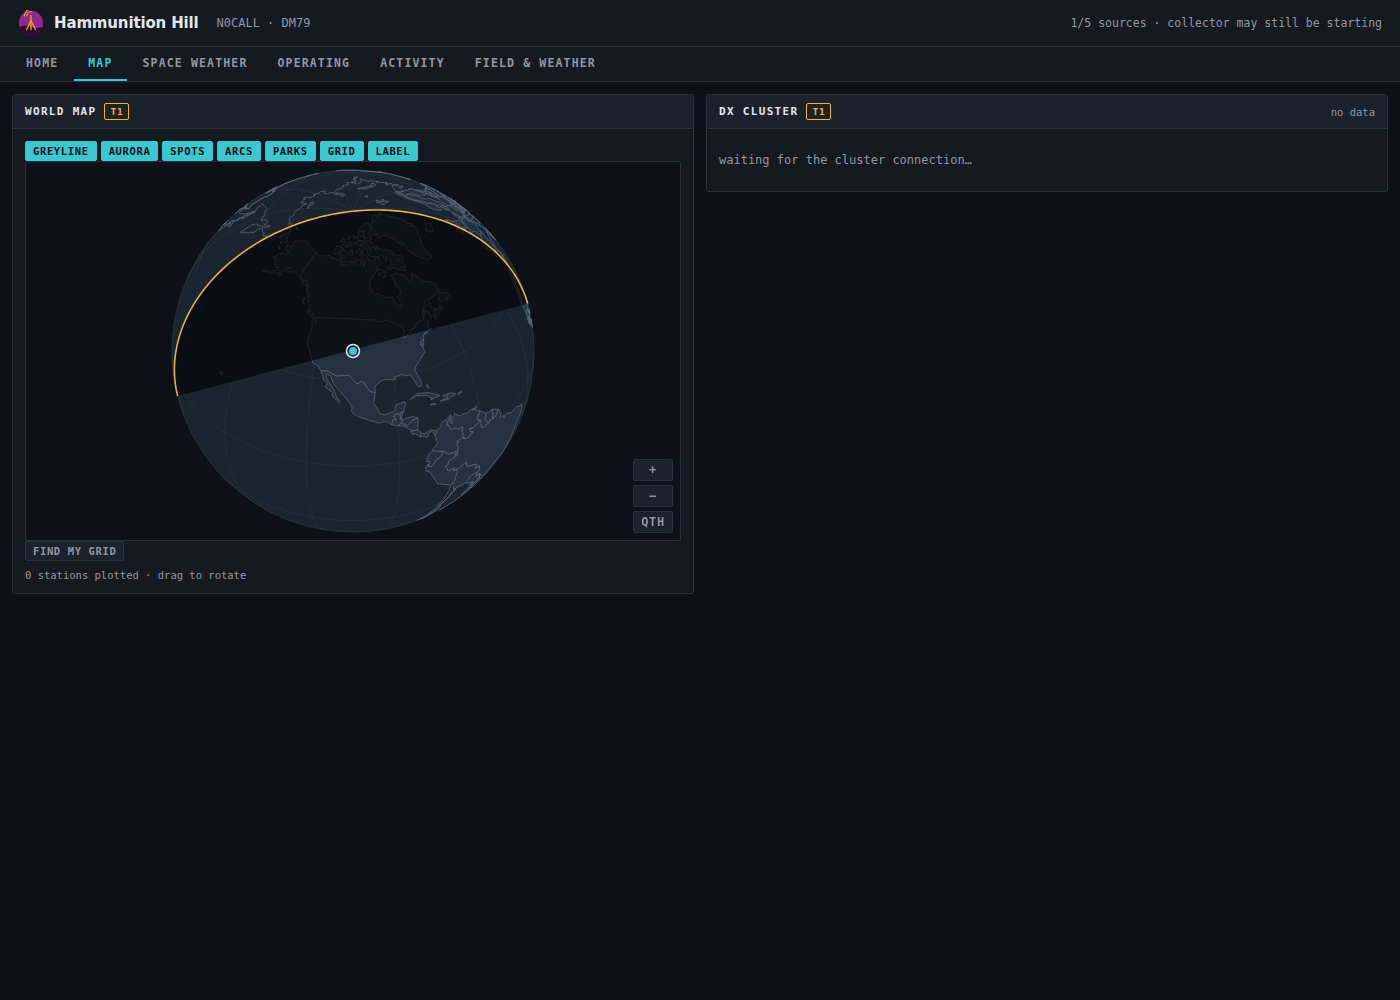
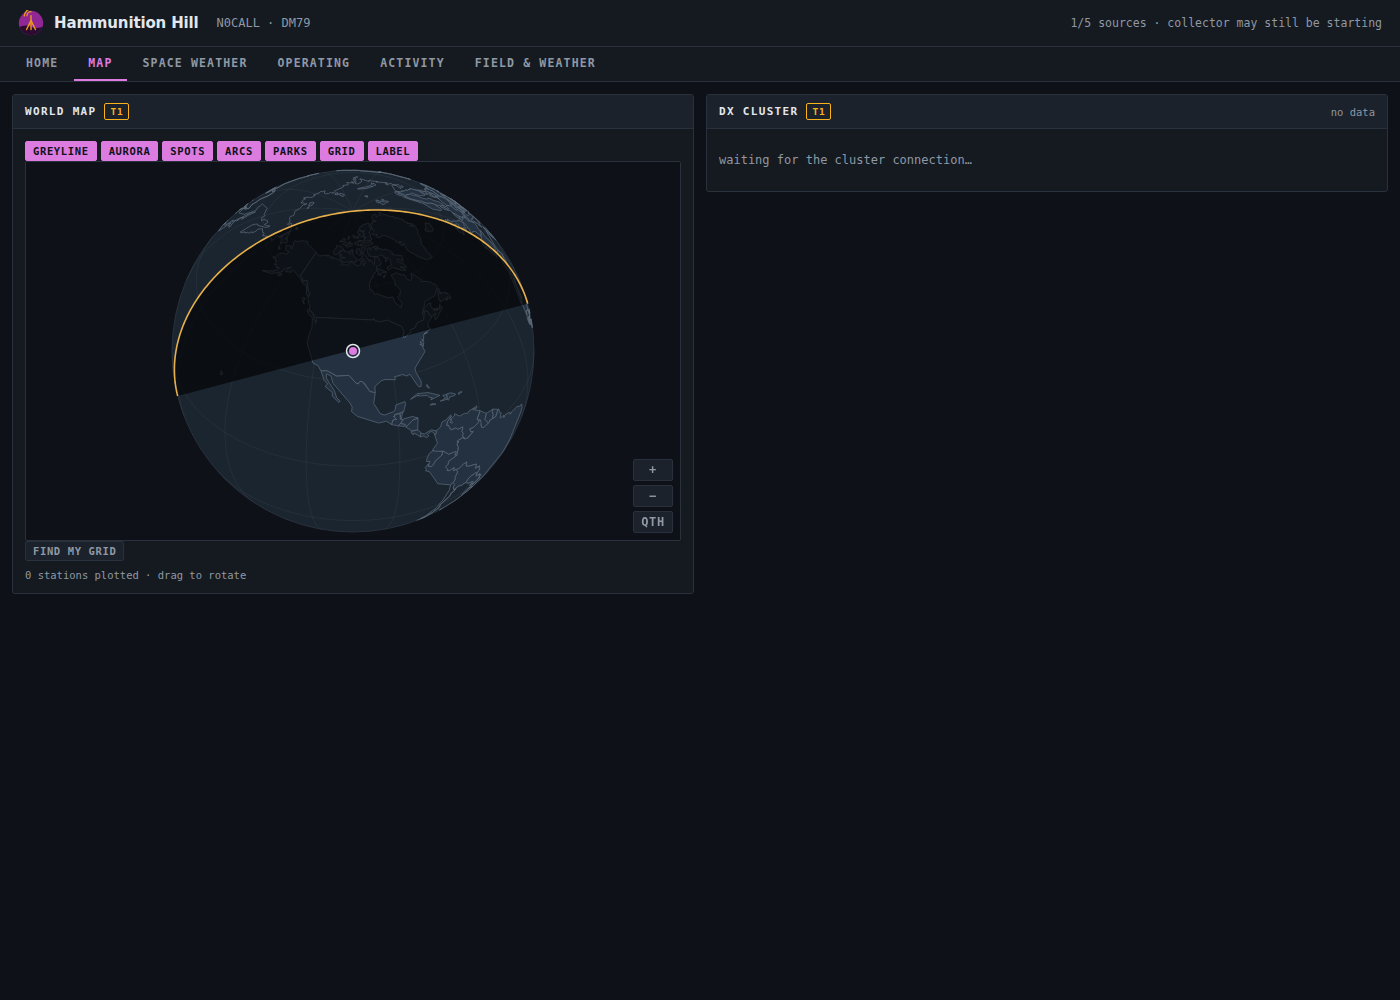
Repaint the accent in the brand hue, at a lightness that is readable
The dashboard accent was cyan and every panel used it. Painting it the
logo's purple was asked for, with the condition that it stay readable,
so this measures rather than eyeballs it.

#912795 is **2.62:1** against the dashboard ground. That fails the 3:1
floor for interface components and is nowhere near the 4.5:1 for text,
and --accent *is* text: active tabs, links, callsigns, band labels. It
is also a fill with --ground written on top, though contrast is
symmetric so one measurement covers both roles. A straight token swap
would have been a readability regression made for brand reasons, and
nothing in the repository would have objected.

So the accent is #dc7be0: the same hue, 298 degrees, raised in lightness
to 7.1:1. The trade is worth stating rather than hiding -- reaching the
old cyan's 9.1:1 turns the colour pink before it gets there, so this
stops at AA for text and AAA for large text and keeps looking like the
logo.

tests/test_contrast.py measures every foreground token against every
surface it can land on and fails below its floor. The helper is checked
against black on white (21:1), a colour on itself (1:1), and the
canonical #767676-on-white 4.5:1 reference before anything trusts it.

It also asserts that --brand is *not* used as a text colour, and fails
if --brand ever clears 3:1 -- because the failure mode this is really
guarding is not a bad swap today, it is somebody in a year deciding the
[…]

Changed region(s): [[0.0, 0.124, 0.3071, 0.186], [0.0614, 0.062, 0.0921, 0.093]]

diff --git a/web/style.css b/web/style.css
@@ -7,7 +7,14 @@
   --rule: #28313c;
   --ink: #e3e7ed;
   --muted: #8f98a4;
-  --accent: #3bc6d0;
+  /* The accent is the logo's purple, lightened until it is readable.
+     #912795 itself is 2.62:1 against --ground, which fails the 3:1 floor for
+     interface components and is nowhere near the 4.5:1 for text -- and this
+     token is text: active tabs, links, callsigns, band labels. Same hue
+     (298 degrees), raised to 7.1:1. Going further turns it pink before it
+     reaches the cyan's 9.1, which is the trade being made here.
+     tests/test_contrast.py holds the floor. */
+  --accent: #dc7be0;
   /* The logo's colours, as their own tokens, sampled from the artwork rather
      than picked beside it: these are the two most common chromatic values in
      docs/images/logo.png. Deliberately separate from --accent, which is cyan

diff --git a/tests/test_contrast.py b/tests/test_contrast.py
@@ -1,0 +1,113 @@
+# This Source Code Form is subject to the terms of the Mozilla Public
+# License, v. 2.0. If a copy of the MPL was not distributed with this
+# file, You can obtain one at https://mozilla.org/MPL/2.0/.
+
+"""Contrast floors for the palette, measured rather than eyeballed.
+
+A dashboard is read at a distance, often across a room, frequently by someone
+whose eyes are on a radio rather than the screen. Contrast is the one property
+of a colour scheme that is not a matter of taste, so it is the one worth
+asserting.
+
+This exists because repainting the accent in the logo's colours was proposed.
+The logo purple is #912795, which is 2.62:1 against the dashboard ground --
+below the 3:1 floor for user interface components and well below the 4.5:1 for
+text. It would have been a straight readability regression made for brand
+reasons, and nothing in the repository would have objected.
+"""
+
+from __future__ import annotations
+
+import re
+from pathlib import Path
+
+import pytest
+
+ROOT = Path(__file__).resolve().parents[1]
+CSS = (ROOT / "web" / "style.css").read_text(encoding="utf-8")
+
+
+def tokens() -> dict[str, str]:
+    """The `--name: #hex;` declarations on :root."""
+    return dict(re.findall(r"--([a-z0-9-]+):\s*(#[0-9a-fA-F]{6})\s*;", CSS))
+
+
+def _channel(value: int) -> float:
+    c = value / 255
+    return c / 12.92 if c <= 0.04045 else ((c + 0.055) / 1.055) ** 2.4
+
+
+def luminance(colour: str) -> float:
+    """Relative luminance, WCAG 2.x definition."""
+    h = colour.lstrip("#")
+    r, g, b = (int(h[i : i + 2], 16) for i in (0, 2, 4))
+    return 0.2126 * _channel(r) + 0.7152 * _channel(g) + 0.0722 * _channel(b)
+
+
+def contrast(a: str, b: str) -> float:
+    la, lb = luminance(a), luminance(b)
+    high, low = max(la, lb), min(la, lb)
+    return (high + 0.05) / (low + 0.05)
+
+
+def test_the_contrast_helper_is_right():
+    """Check the maths against the two ends of the scale before trusting it."""
+    assert contrast("#ffffff", "#000000") == pytest.approx(21.0, abs=0.01)
+    assert contrast("#777777", "#777777") == pytest.approx(1.0, abs=0.01)
+    # A published reference pair: #767676 on white is the canonical 4.5:1 case.
+    assert contrast("#767676", "#ffffff") == pytest.approx(4.54, abs=0.05)
+
+
+SURFACES = ("ground", "panel", "panel-2")
+
+# Tokens used as foreground text somewhere in the stylesheet, and the floor
+# each has to clear on every surface it can land on.
+FOREGROUND_FLOORS = {
+    "ink": 7.0,  # body text, so AAA
+    "muted": 4.5,  # secondary text, AA
+    "accent": 4.5,  # links, active tabs, callsigns: text, not decoration
+    "good": 3.0,  # status, always paired with a label and a number
+    "fair": 3.0,
+    "poor": 3.0,
+}
+
+
+@pytest.mark.parametrize("token", sorted(FOREGROUND_FLOORS))
+@pytest.mark.parametrize("surface", SURFACES)
+def test_foreground_tokens_clear_their_contrast_floor(token, surface):
+    palette = tokens()
+    assert token in palette, f"--{token} is not defined"
+    assert surface in palette, f"--{surface} is not defined"
+    measured = contrast(palette[token], palette[surface])
+    floor = FOREGROUND_FLOORS[token]
+    assert measured >= floor, (
+        f"--{token} on --{surface} is {measured:.2f}:1, below the {floor}:1 floor"
+    )
+
+
+def test_the_accent_is_readable_as_a_fill_as_well_as_as_text():
+    """`.chip.on` and `.need-badge` put --ground *on* --accent.
+
+    Contrast is symmetric, so one measurement covers both directions -- but
+    only because both roles use the same pair. If a third role ever paints
+    accent text on a panel, that is the pair above.
+    """
+    palette = tokens()
+    assert contrast(palette["accent"], palette["ground"]) >= 4.5
+
+
+def test_the_brand_purple_is_not_used_as_a_foreground():
+    """--brand is the mark's plate colour, and it is not readable as text.
+
+    At 2.62:1 on the ground it fails every floor there is. It is fine as a
+    large solid shape carrying no text, which is what the mark is, and it must
+    not quietly become a text colour because it is "the brand colour".
+    """
+    palette = tokens()
+    assert contrast(palette["brand"], palette["ground"]) < 3.0, (
+        "--brand now clears 3:1; if it was deliberately lightened, move it into "
+        "FOREGROUND_FLOORS instead of deleting this test"
+    )
+    for line in CSS.splitlines():
+        if "var(--brand)" in line and "color:" in line and "background" not in line:
+            raise AssertionError(f"--brand used as a text colour: {line.strip()}")

diff --git a/docs/BRANDING.md b/docs/BRANDING.md
@@ -83,9 +83,27 @@ The dashboard's surface and status ramps are in the same file so that anything
 made off this package matches the product. `web/style.css` is the source of
 truth for those, and `tests/test_brand.py` keeps the two in step.
 
-**The dashboard accent is still cyan (`#3bc6d0`), not the brand purple.** Every
-panel uses it. Repainting the dashboard in the logo's colours is a deliberate
-change with its own before and after, not a side effect of adding a logo.
+### The accent is the brand purple, lightened
+
+The dashboard accent is `#dc7be0`, not `#912795`. That is not a different
+colour chosen for variety: it is the same hue (298°), raised in lightness until
+it is legible.
+
+`--accent` is **text** — active tabs, links, callsigns, band labels — and it is
+also a fill with `--ground` written on top. The logo purple measures **2.62:1**
+against the dashboard ground, which fails the 3:1 floor for interface
+components and is nowhere near the 4.5:1 for text. Painting the dashboard in it
+would have been a readability regression made for brand reasons.
+
+At 298° the trade is real and worth stating: reaching the old cyan's 9.1:1
+turns the colour pink before it gets there. `#dc7be0` sits at **7.1:1**, which
+clears AA for text and AAA for large text while still reading as the logo's
+purple.
+
+`tests/test_contrast.py` measures every foreground token against every surface
+and fails below its floor. It also asserts that `--brand` is *not* used as a
+text colour, so the unreadable one cannot quietly become one on the grounds
+that it is "the brand colour".
 
 ## Using it
 
